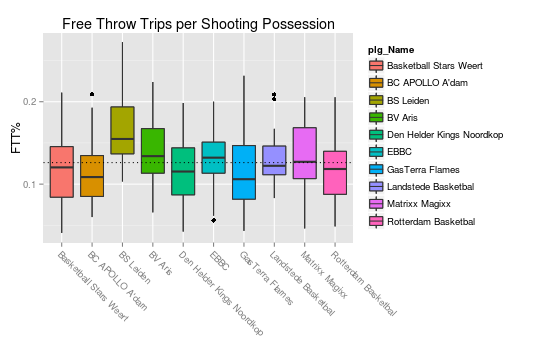
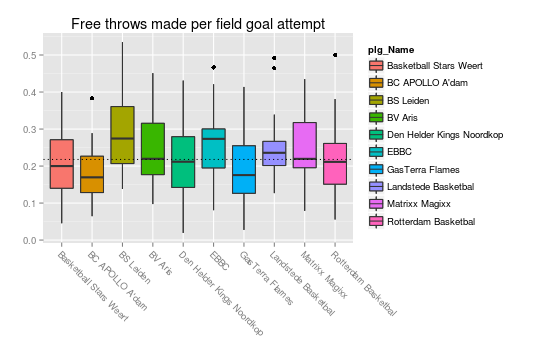
Updated report files

diff --git a/site/pages/reports/2012-2013/teamindicators_regular_season.rst b/site/pages/reports/2012-2013/teamindicators_regular_season.rst
@@ -103,12 +103,12 @@ The correlation matrix for the four factors and the net rating is displayed belo
 
 ::
 
-    ##           Nrtg   EFGpct  ORpct    TOpct  FTTpct
-    ## Nrtg    1.0000  0.60587 0.4942 -0.22099 0.11939
-    ## EFGpct  0.6059  1.00000 0.2064 -0.10716 0.01536
-    ## ORpct   0.4942  0.20640 1.0000  0.12402 0.01910
-    ## TOpct  -0.2210 -0.10716 0.1240  1.00000 0.03972
-    ## FTTpct  0.1194  0.01536 0.0191  0.03972 1.00000
+    ##           Nrtg   EFGpct   ORpct    TOpct     FT4f
+    ## Nrtg    1.0000  0.60587 0.49418 -0.22099  0.18286
+    ## EFGpct  0.6059  1.00000 0.20640 -0.10716  0.01898
+    ## ORpct   0.4942  0.20640 1.00000  0.12402  0.06698
+    ## TOpct  -0.2210 -0.10716 0.12402  1.00000 -0.02235
+    ## FT4f    0.1829  0.01898 0.06698 -0.02235  1.00000
 
 
 
